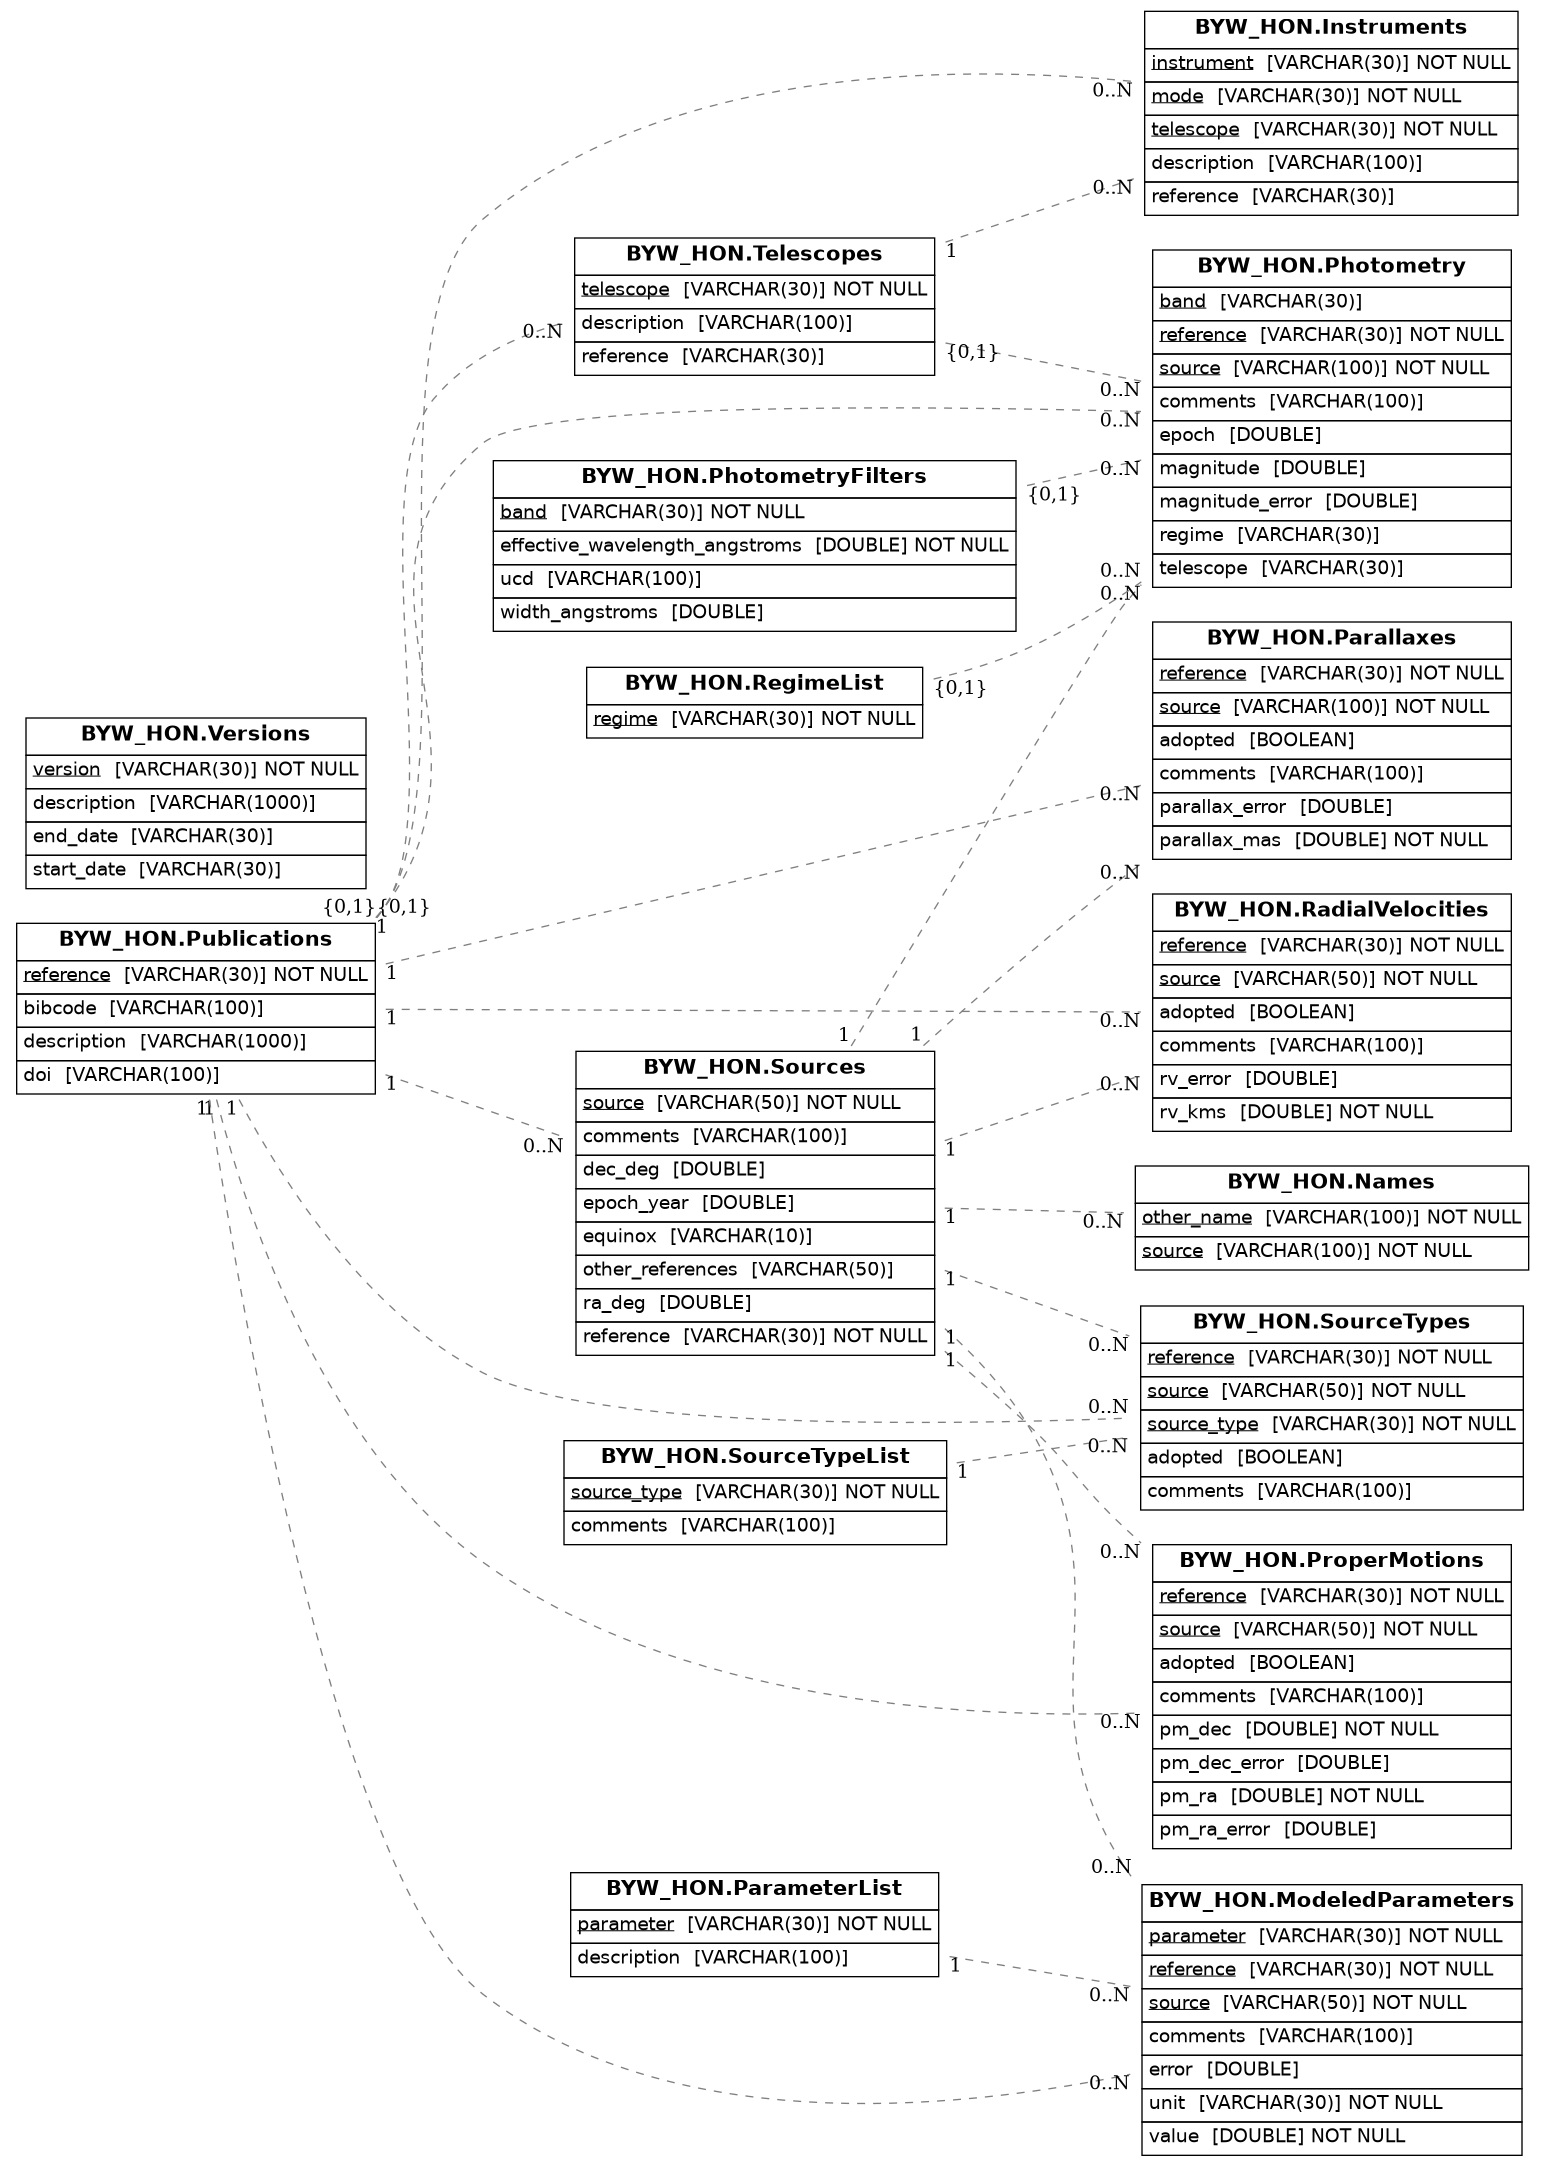
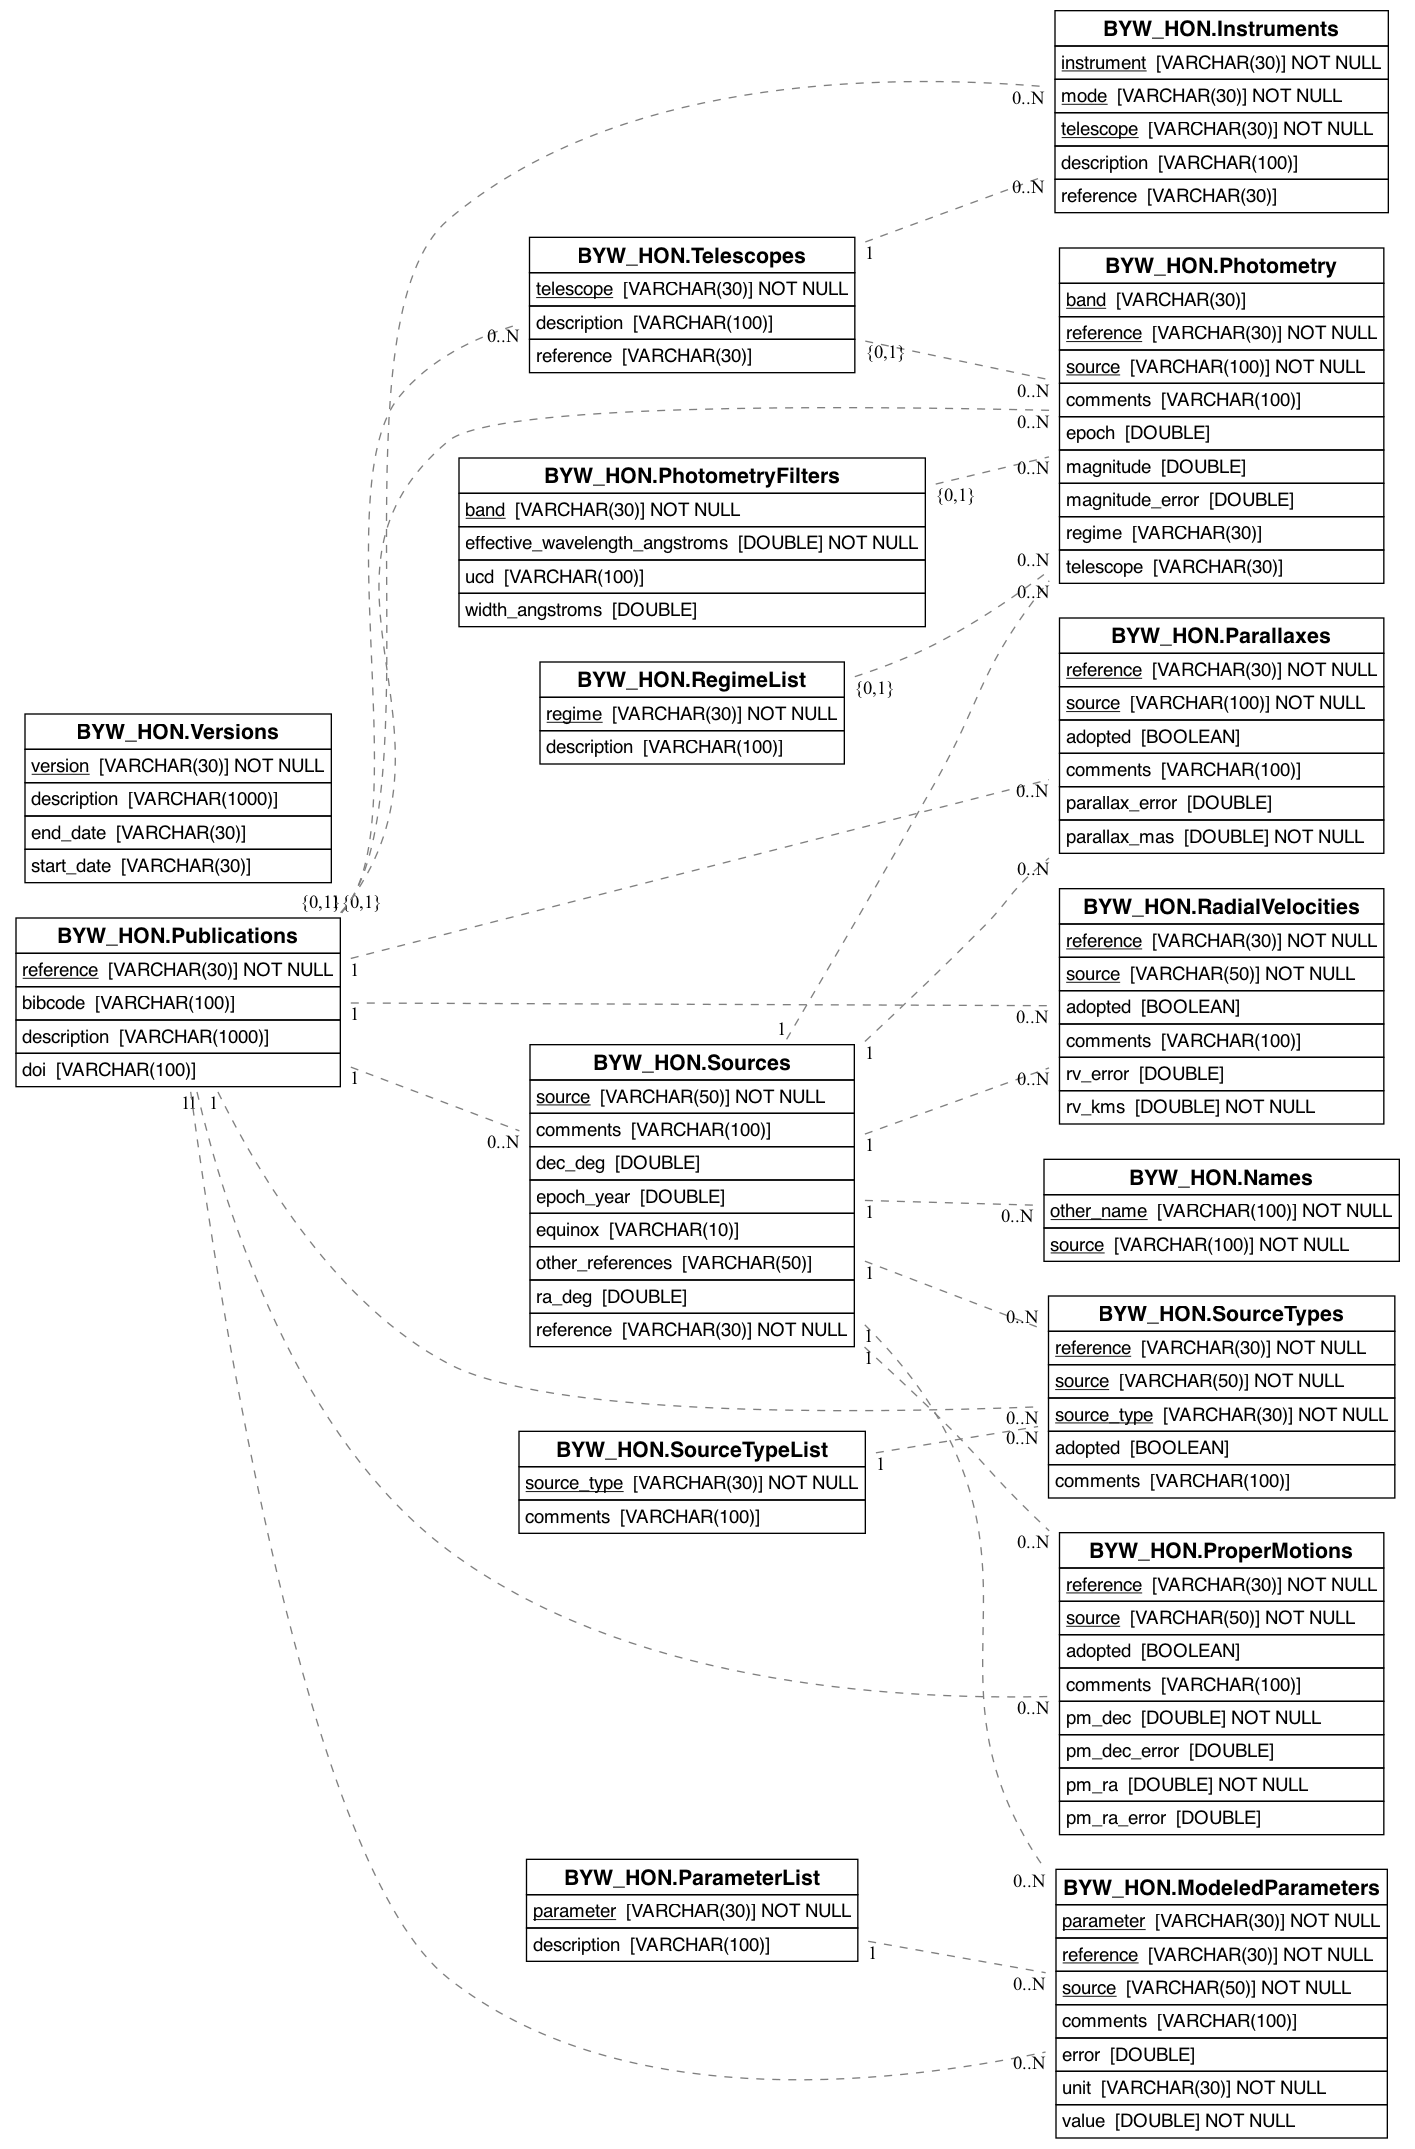
ingested first source
lots of debugging but got first source in and can save the json files. some schema edits made too

diff --git a/scripts/ingest_CWISEJ172138.58-064311.4.py b/scripts/ingest_CWISEJ172138.58-064311.4.py
@@ -7,20 +7,23 @@ from astrodb_utils.photometry import ingest_photometry
 db_file = "BYW_HON.sqlite"
 felis_schema = "schema/schema.yaml"
 
+DB_SAVE = True
+DB_RECREATE = True
+
 reference_tables = [
     "Publications",
-    "Telescopes"
+    "Telescopes",
     "Instruments",
     "PhotometryFilters",
-    "Versions",
     "RegimeList",
     "ParameterList",
-    "SourceTypeList"
+    "SourceTypeList",
+    "Versions"
 ]
 
 db = load_astrodb(
     db_file,
-    recreatedb=True,
+    recreatedb=DB_RECREATE,
     felis_schema=felis_schema,
     reference_tables=reference_tables,
 )
@@ -34,20 +37,16 @@ def ingest_CWISEJ_1721(db): ##- question: is it better to leave columns as "None
     )
 
     ingest_source(db,
-                  source = "CWISEJ172138.58-064311.4",
+                  source = "CWISE J172138.58-064311.4",
                   reference = "HONA26",
                   ra = 260.4107662,
                   dec = -6.7198597,
-                  epoch = 2000.0,
                   equinox = "J2000",
                   comment="CatWISE2020",
-                  ra_col_name = "ra_deg",
-                  dec_col_name = "dec_deg",
-                  epoch_col_name = "epoch_year"
                   )
     
     ingest_name(db,
-                 source = "CWISEJ172138.58-064311.4",
+                 source = "CWISE J172138.58-064311.4",
                  other_name = "1712-0543")
     
 
@@ -59,21 +58,21 @@ def ingest_photometry_CWISEJ_1721(db):
     
 
     ingest_photometry(db,
-                      source = "CWISEJ172138.58-064311.4",
+                      source = "CWISE J172138.58-064311.4",
                       band="VISTA.J",
                       magnitude = 16.444,
                       magnitude_error = 0.011,
                       telescope = "VISTA",
                       reference = "Goodstuff")
     ingest_photometry(db,
-                      source = "CWISEJ172138.58-064311.4",
+                      source = "CWISE J172138.58-064311.4",
                       band="2MASS.H",
                       magnitude = 15.424,
                       magnitude_error = 0.096,
-                      telescope = "2MASSS",
+                      telescope = "2MASS",
                       reference = "Goodstuff")
     ingest_photometry(db,
-                      source = "CWISEJ172138.58-064311.4",
+                      source = "CWISE J172138.58-064311.4",
                       band="VISTA.Ks",
                       magnitude = 14.978,
                       magnitude_error = 0.012,
@@ -81,13 +80,14 @@ def ingest_photometry_CWISEJ_1721(db):
                       reference = "Goodstuff")
     
 def ingest_propermotions_CWISEJ_1721(db):
-    ingest_publication(db, 
-                       reference="Goodstuff", 
-                       description="BYW goodstuff sheet",
-                       ignore_ads=True)   
+    ## -- add a line for "search for publication"
+    #ingest_publication(db, 
+    #                   reference="Goodstuff", 
+    #                   description="BYW goodstuff sheet",
+    #                   ignore_ads=True)   
     propermotiondata = [
         {
-            "source": "CWISEJ172138.58-064311.4",
+            "source": "CWISE J172138.58-064311.4",
             "pm_ra": 115.13,
             "pm_ra_error": 8.7,
             "pm_dec": -97.56,
@@ -95,16 +95,19 @@ def ingest_propermotions_CWISEJ_1721(db):
             "reference": "Goodstuff"
         }
     ]
+    try:
+        with db.engine.connect() as conn:
+            conn.execute(db.ProperMotions.insert().values(propermotiondata))
+            conn.commit()
+    except Exception as e:
+        print(f"Error inserting proper motion data: {e}")
 
-    with db.engine.connect() as conn:
-        conn.execute(db.ProperMotions.insert().values(propermotiondata))
-        conn.commit()
 
-DB_SAVE = True
+
 
 ingest_CWISEJ_1721(db)
-#ingest_photometry_CWISEJ_1721(db)
-#ingest_propermotions_CWISEJ_1721(db)
+ingest_photometry_CWISEJ_1721(db)
+ingest_propermotions_CWISEJ_1721(db)
 
 
 if DB_SAVE:

diff --git a/docs/schema/RegimeList.md b/docs/schema/RegimeList.md
@@ -6,6 +6,7 @@ Columns marked with an exclamation mark (❗) may not be empty.
 | Column Name | Description | Datatype | Length | Units  | UCD |
 | --- | --- | --- | --- | --- | --- |
 | ❗ <ins>regime</ins> | Regime identifier string | string | 30 |  | meta.id;meta.main  |
+| description | Description of the regime | string | 100 |  | meta.note  |
 
 ## Indexes
 | Name | Columns | Description |
